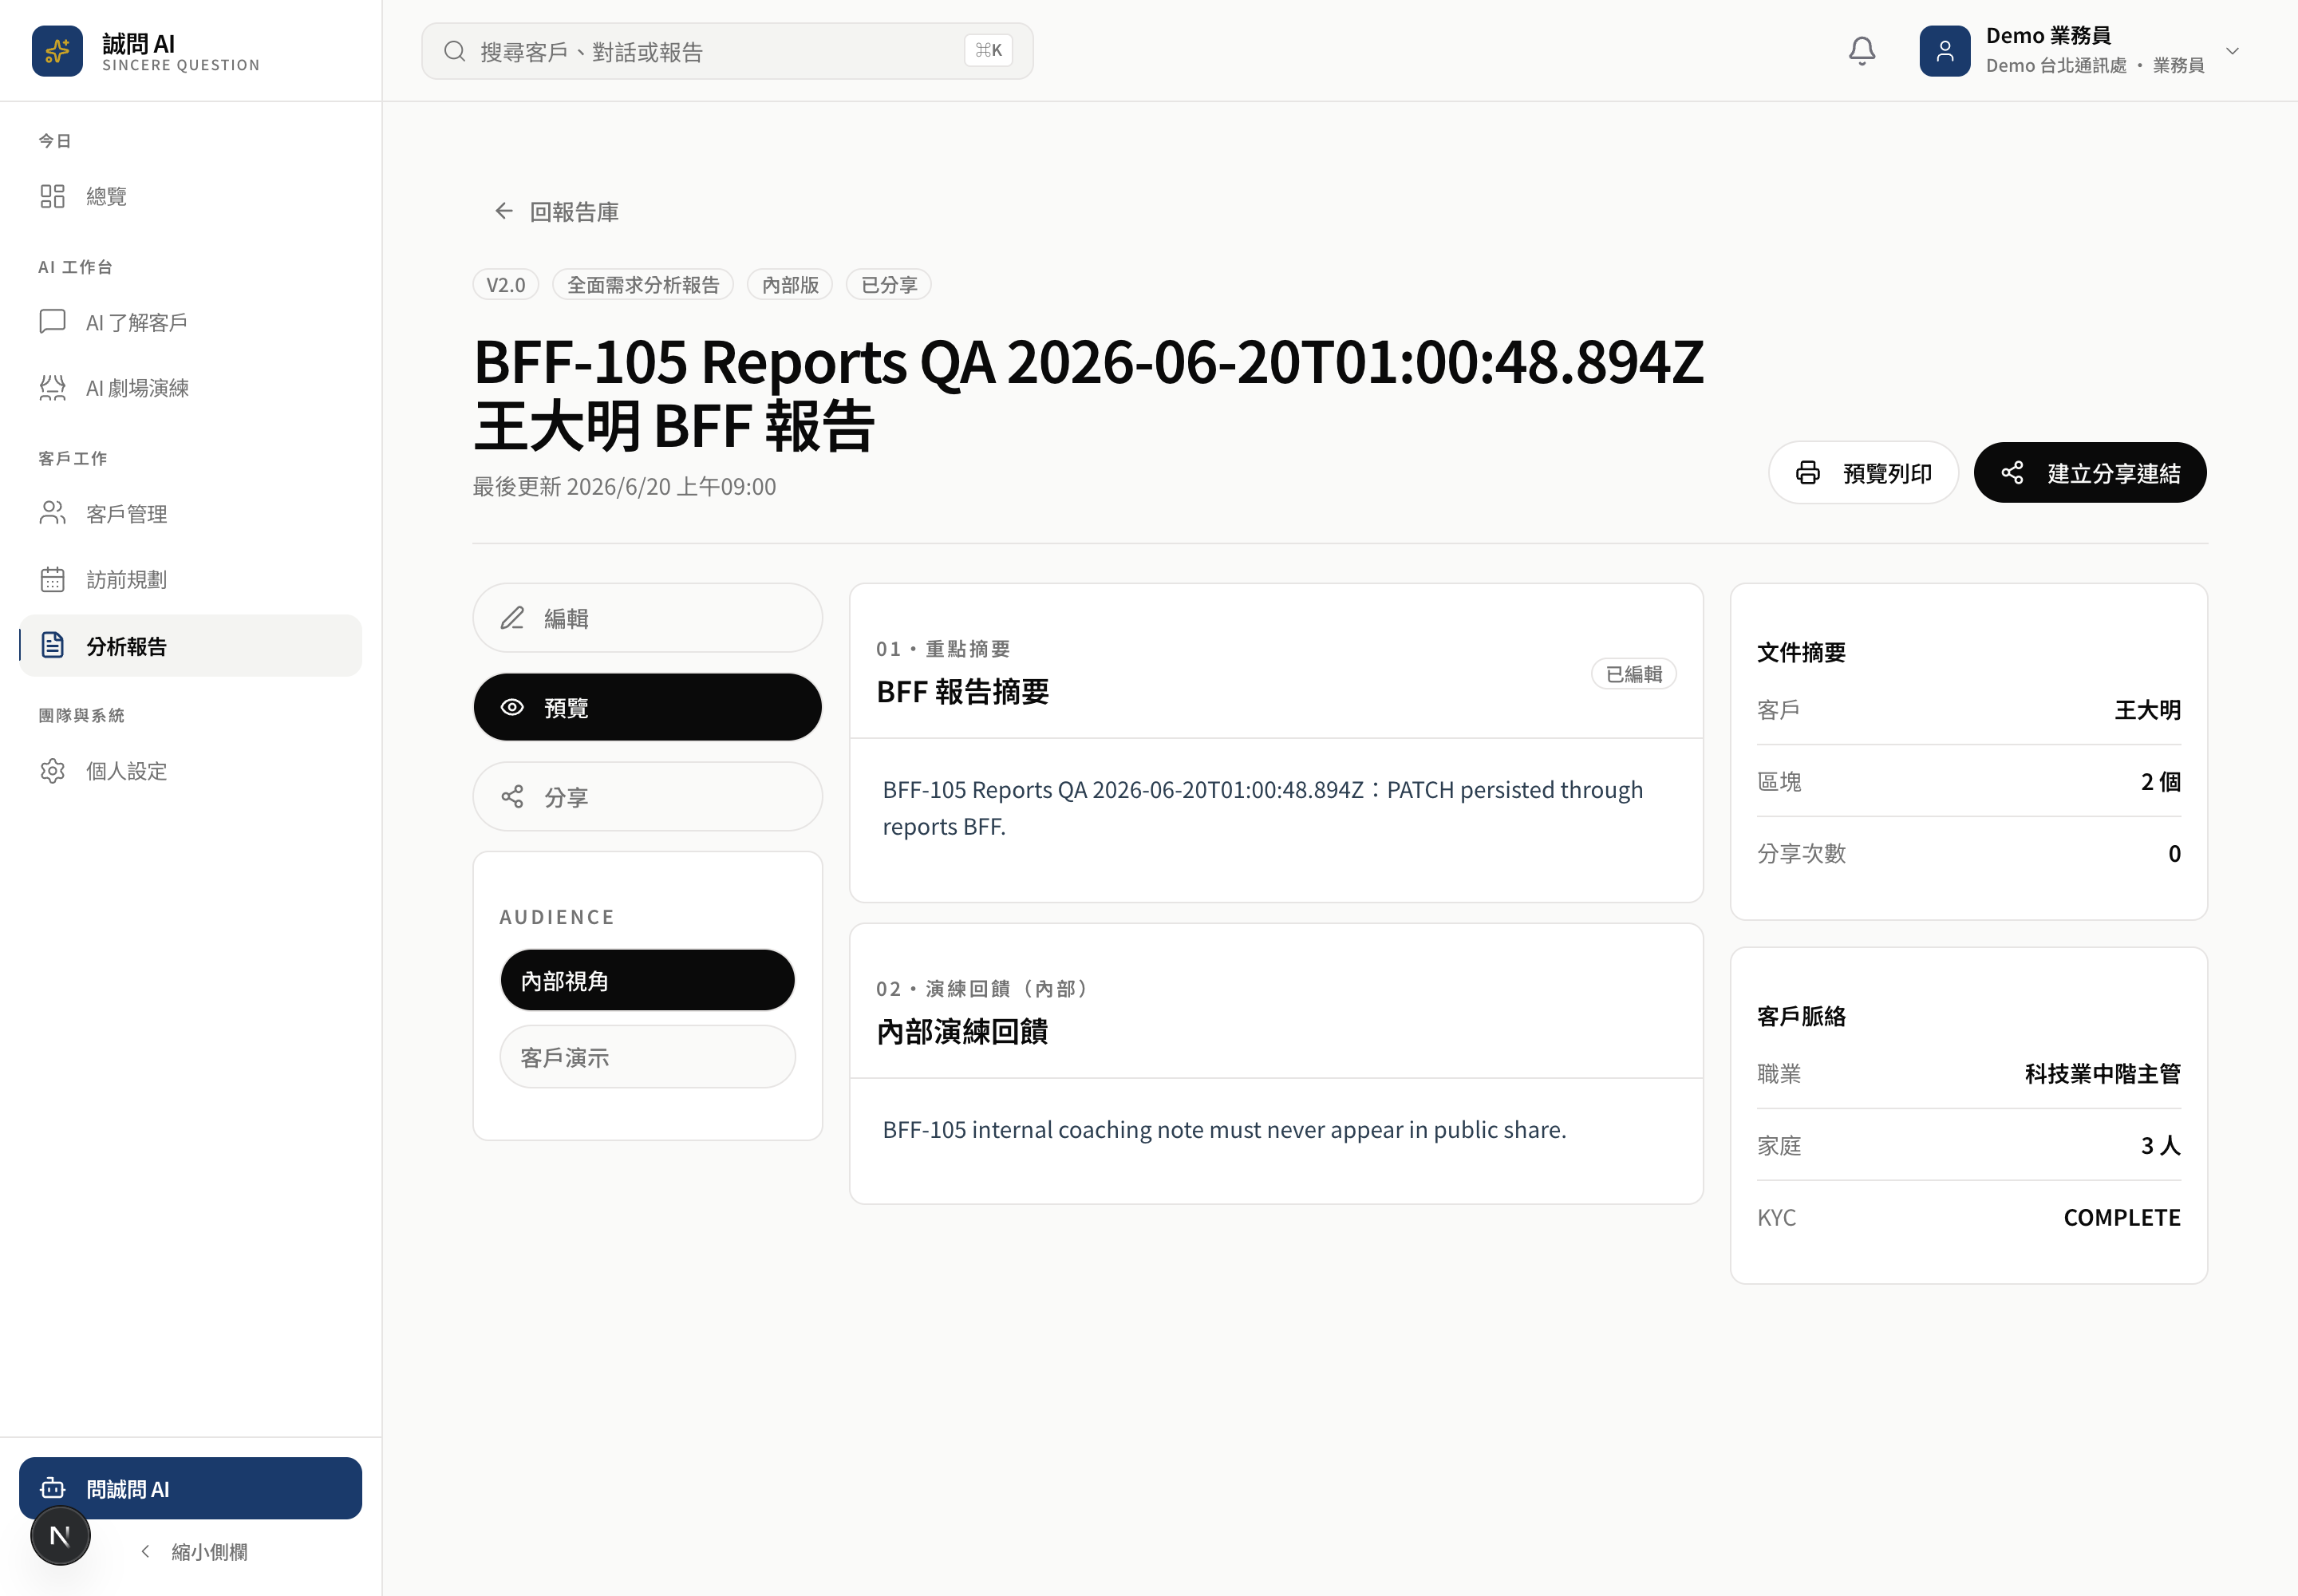
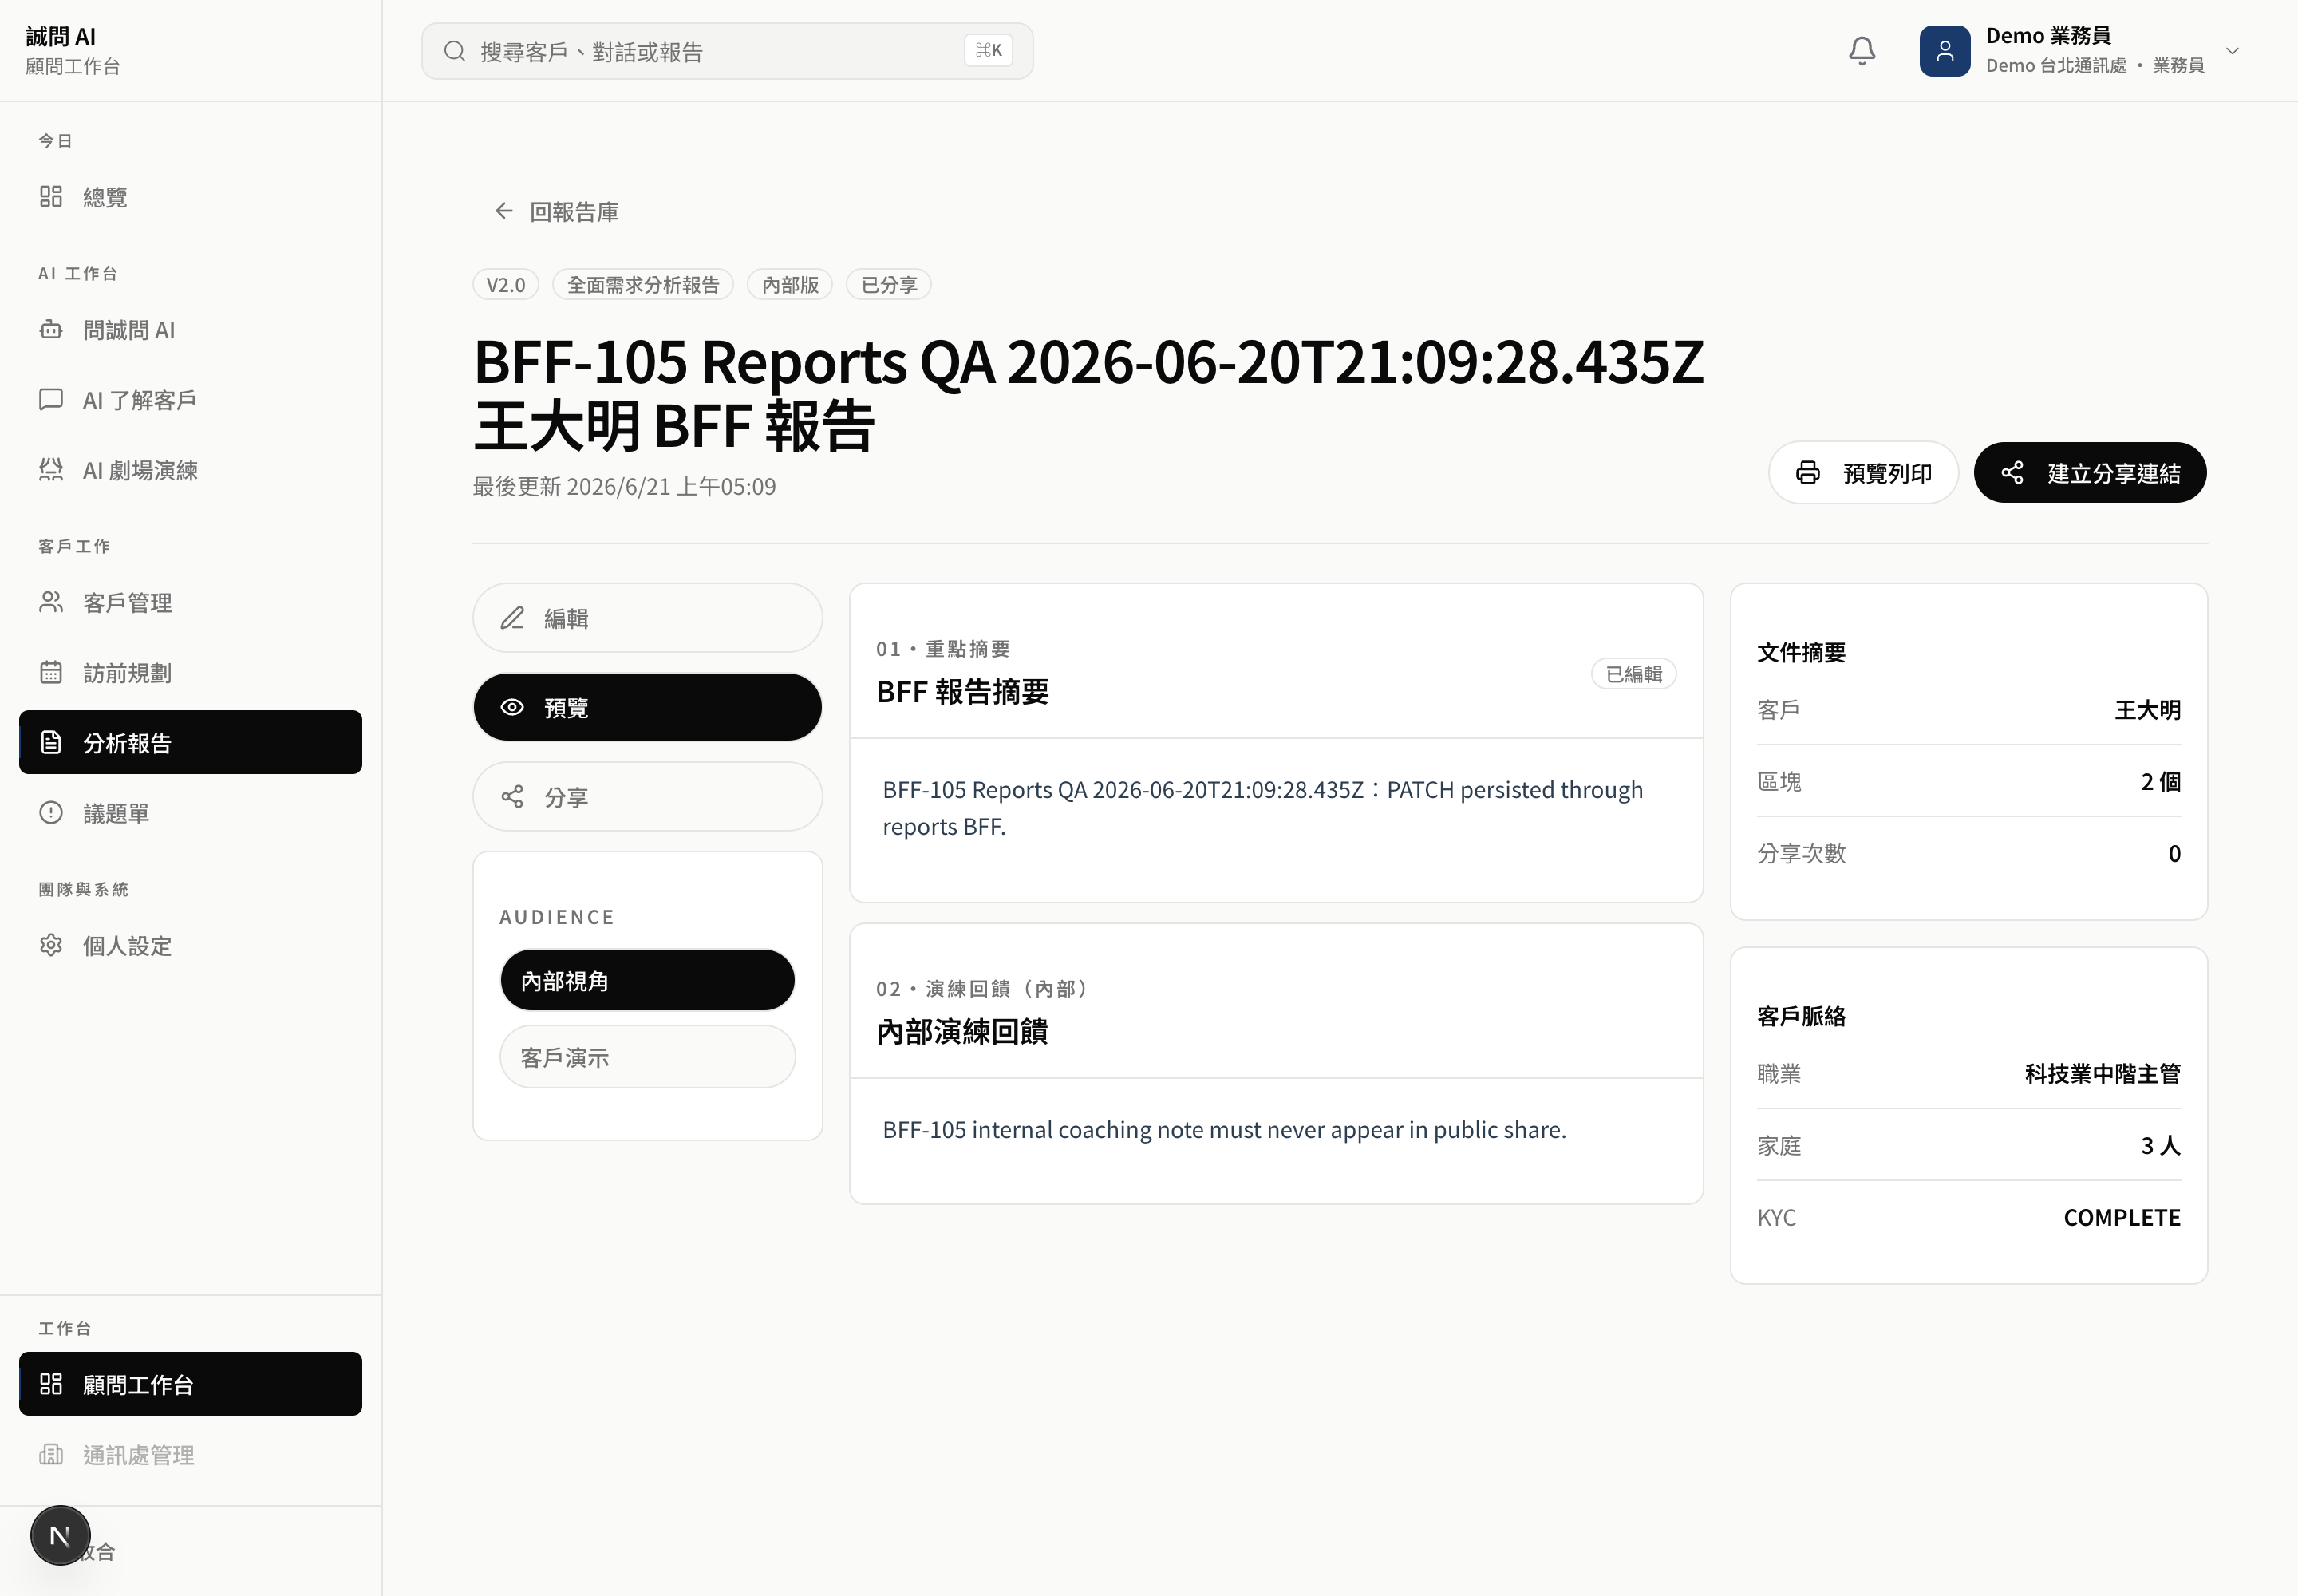
feat(ai-protocol): adopt nap source evidence

diff --git a/src/domains/ai-protocol/manifest.ts b/src/domains/ai-protocol/manifest.ts
@@ -29,6 +29,8 @@ export type AgentProtocolAiUsageLogPolicy =
   | "blocked-until-provider-proof"
   | "not-accepted-prototype";
 
+export type AgentProtocolSourceAdoptionStatus = "pending" | "partial" | "adopted";
+
 export type AgentProtocolDataClass =
   | "PUBLIC_METADATA"
   | "INTERNAL_METADATA"
@@ -99,6 +101,12 @@ export interface AgentProtocolManifest {
   proof: {
     sourceAuditModule: AgentProtocolModule | "PROTOTYPE";
     commands: string[];
+    sourceAdoption?: {
+      status: AgentProtocolSourceAdoptionStatus;
+      ownerRefs: string[];
+      evidenceRefs: string[];
+      notes: string[];
+    };
     knownBlockers: string[];
   };
   registry: {
@@ -175,7 +183,7 @@ export const ASAI_AGENT_PROTOCOL_MANIFESTS: AgentProtocolManifest[] = [
       displayName: "問誠問 AI",
       ownerSurface: "global assistant / dashboard shell",
       module: "CHAT",
-      version: "2026-06-21.nap-002",
+      version: "2026-06-21.nap-003a",
       status: "active",
     },
     capabilities: [
@@ -230,6 +238,27 @@ export const ASAI_AGENT_PROTOCOL_MANIFESTS: AgentProtocolManifest[] = [
     proof: {
       sourceAuditModule: "CHAT",
       commands: commonProofCommands,
+      sourceAdoption: {
+        status: "adopted",
+        ownerRefs: [
+          "src/app/api/ai/chat/route.ts",
+          "src/lib/assistant/assistant-chat-repository.ts",
+          "src/lib/assistant/assistant-tools.ts",
+        ],
+        evidenceRefs: [
+          "chatRequestSchema",
+          "ASSISTANT_TOOLS",
+          "executeAssistantTool",
+          "ensureAssistantConversation",
+          "persistAssistantChatSuccess",
+          "persistAssistantChatFailure",
+        ],
+        notes: [
+          "Route scope comes from requireCurrentMember and canUseAiModule before the provider path.",
+          "Conversation and message persistence are owned by assistant-chat-repository, including success and error AiUsageLog paths.",
+          "Assistant tool execution is restricted to the local allowlist and resolves client/team scope from the trusted session.",
+        ],
+      },
       knownBlockers: ["External registry publication approval is missing."],
     },
     registry: commonRegistry,
@@ -421,7 +450,7 @@ export const ASAI_AGENT_PROTOCOL_MANIFESTS: AgentProtocolManifest[] = [
       displayName: "SPIN advisor",
       ownerSurface: "/spin",
       module: "SPIN",
-      version: "2026-06-21.nap-002",
+      version: "2026-06-21.nap-003a",
       status: "active",
     },
     capabilities: [
@@ -470,6 +499,28 @@ export const ASAI_AGENT_PROTOCOL_MANIFESTS: AgentProtocolManifest[] = [
     proof: {
       sourceAuditModule: "SPIN",
       commands: [...commonProofCommands, "pnpm spin:source-truth-qa"],
+      sourceAdoption: {
+        status: "adopted",
+        ownerRefs: [
+          "src/app/api/ai/spin/route.ts",
+          "src/app/api/ai/spin-suggestions/route.ts",
+          "src/lib/spin/spin-session-repository.ts",
+        ],
+        evidenceRefs: [
+          "spinRequestSchema",
+          "suggestionsRequestSchema",
+          "SPIN_PHASES",
+          "PHASE_ORDER",
+          "isAllowedPhaseTransition",
+          "persistAiGenerationSuccess",
+          "persistAiGenerationFailure",
+        ],
+        notes: [
+          "Provider routes use requireCurrentMember, canUseAiModule, server-side client lookup, and success/error AiUsageLog helpers.",
+          "Persisted SPIN sessions keep SITUATION -> PROBLEM -> IMPLICATION -> NEED_PAYOFF ordering through repository transition checks.",
+          "Deterministic SPIN source-truth QA remains the accepted proof that session outline/persistence does not need a provider call.",
+        ],
+      },
       knownBlockers: ["External registry publication approval is missing."],
     },
     registry: commonRegistry,
@@ -480,7 +531,7 @@ export const ASAI_AGENT_PROTOCOL_MANIFESTS: AgentProtocolManifest[] = [
       displayName: "Visit preparation package",
       ownerSurface: "/pre-visit",
       module: "VISIT",
-      version: "2026-06-21.nap-002",
+      version: "2026-06-21.nap-003a",
       status: "active",
     },
     capabilities: [
@@ -528,6 +579,30 @@ export const ASAI_AGENT_PROTOCOL_MANIFESTS: AgentProtocolManifest[] = [
     proof: {
       sourceAuditModule: "VISIT",
       commands: [...commonProofCommands, "pnpm bff:visit-report-ai-qa"],
+      sourceAdoption: {
+        status: "adopted",
+        ownerRefs: [
+          "src/app/api/ai/visit/route.ts",
+          "src/domains/visit/ai-evidence-dto.ts",
+          "src/domains/visit/reasoning.ts",
+          "src/lib/visits/visit-plan-repository.ts",
+        ],
+        evidenceRefs: [
+          "visitRequestSchema",
+          "visitOutputSchema",
+          "buildProviderSafeClientSnapshot",
+          "buildAiEvidenceSummary",
+          "enrichSpinQuestionsWithReasoning",
+          "updateVisitPlanForMember",
+          "persistAiGenerationSuccess",
+          "persistAiGenerationFailure",
+        ],
+        notes: [
+          "Provider input is built from a provider-safe client snapshot and server-side client permission lookup.",
+          "Question rationale and evidence summary keep facts, inferences, unknowns, and recommendations separate.",
+          "Saved VisitPlan persistence is owned by the visit-plan repository, not by provider response metadata.",
+        ],
+      },
       knownBlockers: ["External registry publication approval is missing."],
     },
     registry: commonRegistry,
@@ -538,7 +613,7 @@ export const ASAI_AGENT_PROTOCOL_MANIFESTS: AgentProtocolManifest[] = [
       displayName: "Report generation",
       ownerSurface: "/reports",
       module: "REPORT",
-      version: "2026-06-21.nap-002",
+      version: "2026-06-21.nap-003a",
       status: "active",
     },
     capabilities: [
@@ -585,7 +660,31 @@ export const ASAI_AGENT_PROTOCOL_MANIFESTS: AgentProtocolManifest[] = [
     },
     proof: {
       sourceAuditModule: "REPORT",
-      commands: [...commonProofCommands, "pnpm bff:visit-report-ai-qa"],
+      commands: [...commonProofCommands, "pnpm bff:visit-report-ai-qa", "pnpm bff:reports-qa"],
+      sourceAdoption: {
+        status: "adopted",
+        ownerRefs: [
+          "src/app/api/ai/report/route.ts",
+          "src/domains/visit/ai-evidence-dto.ts",
+          "src/lib/report/report-repository.ts",
+          "src/lib/report/report-dto.ts",
+        ],
+        evidenceRefs: [
+          "reportRequestSchema",
+          "buildProviderSafeClientSnapshot",
+          "buildAiEvidenceSummary",
+          "persistAiGenerationSuccess",
+          "persistAiGenerationFailure",
+          "toReportDto",
+          "clientSections",
+          "INTERNAL_ONLY_SECTION_TYPES",
+        ],
+        notes: [
+          "Report AI uses current member scope, server-side client lookup, quota guard, and success/error AiUsageLog helpers.",
+          "JSON report mode returns evidenceSummary while report repository keeps internal sections separate from client-safe sections.",
+          "Public share uses report DTO filtering and never treats internal report body as registry metadata.",
+        ],
+      },
       knownBlockers: ["External registry publication approval is missing."],
     },
     registry: commonRegistry,

diff --git a/scripts/ai-protocol-registry-qa.ts b/scripts/ai-protocol-registry-qa.ts
@@ -30,6 +30,45 @@ const forbiddenValuePatterns = [
   /\botp\b/i,
 ];
 
+const nap003aSourceAdoptionRequirements: Record<string, { ownerRefs: string[]; evidenceRefs: string[]; commands: string[] }> = {
+  "asai.chat.assistant": {
+    ownerRefs: [
+      "src/app/api/ai/chat/route.ts",
+      "src/lib/assistant/assistant-chat-repository.ts",
+      "src/lib/assistant/assistant-tools.ts",
+    ],
+    evidenceRefs: ["ASSISTANT_TOOLS", "ensureAssistantConversation", "persistAssistantChatSuccess", "persistAssistantChatFailure"],
+    commands: ["pnpm ai:bff-audit", "pnpm ai:protocol-registry-qa"],
+  },
+  "asai.visit.preparation_package": {
+    ownerRefs: [
+      "src/app/api/ai/visit/route.ts",
+      "src/domains/visit/ai-evidence-dto.ts",
+      "src/lib/visits/visit-plan-repository.ts",
+    ],
+    evidenceRefs: ["buildProviderSafeClientSnapshot", "buildAiEvidenceSummary", "enrichSpinQuestionsWithReasoning", "updateVisitPlanForMember"],
+    commands: ["pnpm ai:bff-audit", "pnpm ai:protocol-registry-qa", "pnpm bff:visit-report-ai-qa"],
+  },
+  "asai.report.generation": {
+    ownerRefs: [
+      "src/app/api/ai/report/route.ts",
+      "src/lib/report/report-repository.ts",
+      "src/lib/report/report-dto.ts",
+    ],
+    evidenceRefs: ["buildProviderSafeClientSnapshot", "buildAiEvidenceSummary", "toReportDto", "clientSections"],
+    commands: ["pnpm ai:bff-audit", "pnpm ai:protocol-registry-qa", "pnpm bff:visit-report-ai-qa", "pnpm bff:reports-qa"],
+  },
+  "asai.spin.advisor": {
+    ownerRefs: [
+      "src/app/api/ai/spin/route.ts",
+      "src/app/api/ai/spin-suggestions/route.ts",
+      "src/lib/spin/spin-session-repository.ts",
+    ],
+    evidenceRefs: ["SPIN_PHASES", "isAllowedPhaseTransition", "persistAiGenerationSuccess", "persistAiGenerationFailure"],
+    commands: ["pnpm ai:bff-audit", "pnpm ai:protocol-registry-qa", "pnpm spin:source-truth-qa"],
+  },
+};
+
 runQa();
 
 for (const check of checks) {
@@ -60,6 +99,7 @@ function runQa() {
     assertPublicationGate(manifest);
     assertUsagePolicy(manifest);
     assertProofCommands(manifest);
+    assertNap003aSourceAdoption(manifest);
     assertNoForbiddenValues(manifest);
   }
 
@@ -149,6 +189,38 @@ function assertProofCommands(manifest: AgentProtocolManifest) {
 
   if (manifest.identity.status !== "prototype") {
     push(manifest.proof.commands.includes("pnpm ai:bff-audit"), `${prefix} includes AI BFF audit`);
+  }
+}
+
+function assertNap003aSourceAdoption(manifest: AgentProtocolManifest) {
+  const prefix = manifest.identity.agentId;
+  const requirement = nap003aSourceAdoptionRequirements[prefix];
+
+  if (!requirement) {
+    return;
+  }
+
+  const adoption = manifest.proof.sourceAdoption;
+
+  push(Boolean(adoption), `${prefix} declares NAP-003a source adoption evidence`);
+
+  if (!adoption) {
+    return;
+  }
+
+  push(adoption.status === "adopted", `${prefix} NAP-003a source adoption is adopted`, adoption.status);
+  push(adoption.notes.length > 0, `${prefix} has NAP-003a source adoption notes`);
+
+  for (const ownerRef of requirement.ownerRefs) {
+    push(adoption.ownerRefs.includes(ownerRef), `${prefix} source owner includes ${ownerRef}`);
+  }
+
+  for (const evidenceRef of requirement.evidenceRefs) {
+    push(adoption.evidenceRefs.includes(evidenceRef), `${prefix} evidence refs include ${evidenceRef}`);
+  }
+
+  for (const command of requirement.commands) {
+    push(manifest.proof.commands.includes(command), `${prefix} proof commands include ${command}`);
   }
 }
 

diff --git a/docs/06_audits-and-reports/AUD-008_nanda-agentfacts-ai-module-inventory-v1.0.md b/docs/06_audits-and-reports/AUD-008_nanda-agentfacts-ai-module-inventory-v1.0.md
@@ -193,10 +193,10 @@ This section converts the remaining `NAP-003` gap into reviewable implementation
 
 | Agent id | Source owner to align | Current source proof | NAP-003 adoption gap | Smallest next slice | Proof command |
 | --- | --- | --- | --- | --- | --- |
-| `asai.chat.assistant` | `src/app/api/ai/chat/route.ts`; `src/lib/assistant/assistant-chat-repository.ts`; `src/lib/assistant/assistant-tools.ts` | `ai:bff-audit` sees session/quota/success-error usage evidence. | Manifest does not yet point to tool allowlist source and conversation persistence proof as first-class source evidence. | Add manifest/source notes for assistant tool allowlist, conversation/message persistence, and no raw tool payload export. | `pnpm ai:bff-audit`; `pnpm ai:protocol-registry-qa` |
-| `asai.visit.preparation_package` | `src/app/api/ai/visit/route.ts`; `src/domains/visit/ai-evidence-dto.ts`; `src/lib/visits/visit-plan-repository.ts` | `bff:visit-report-ai-qa` proves success/error usage and provider-safe snapshot. | Manifest needs source-owner evidence for provider-safe client snapshot and question rationale DTO. | Align visit manifest with evidence DTO source, saved VisitPlan boundary, and theater handoff constraints. | `pnpm bff:visit-report-ai-qa` |
-| `asai.report.generation` | `src/app/api/ai/report/route.ts`; `src/lib/report/report-repository.ts`; `src/lib/report/report-dto.ts` | `bff:visit-report-ai-qa` proves success/error usage and JSON DTO. | Manifest needs explicit split between internal report body and client-safe share DTO. | Add source adoption note for JSON response mode, public share separation, and no raw report body export. | `pnpm bff:visit-report-ai-qa`; `pnpm bff:reports-qa` |
-| `asai.spin.advisor` | `src/app/api/ai/spin/route.ts`; `src/app/api/ai/spin-suggestions/route.ts`; `src/lib/spin/spin-session-repository.ts` | `spin:source-truth-qa` and `ai:bff-audit` prove BFF source and provider usage posture. | Manifest needs source-owner evidence for preserving `SITUATION -> PROBLEM -> IMPLICATION -> NEED_PAYOFF`. | Add state-machine source adoption note and proof refs without changing SPIN runtime. | `pnpm spin:source-truth-qa` |
+| `asai.chat.assistant` | `src/app/api/ai/chat/route.ts`; `src/lib/assistant/assistant-chat-repository.ts`; `src/lib/assistant/assistant-tools.ts` | `ai:bff-audit` sees session/quota/success-error usage evidence; NAP-003a manifest now points to tool allowlist and conversation persistence refs. | Completed in NAP-003a: `proof.sourceAdoption.status=adopted`. | Next only if assistant tool contracts change. | `pnpm ai:bff-audit`; `pnpm ai:protocol-registry-qa` |
+| `asai.visit.preparation_package` | `src/app/api/ai/visit/route.ts`; `src/domains/visit/ai-evidence-dto.ts`; `src/lib/visits/visit-plan-repository.ts` | `bff:visit-report-ai-qa` proves success/error usage and provider-safe snapshot; NAP-003a manifest now points to snapshot, evidence DTO, reasoning, and VisitPlan persistence refs. | Completed in NAP-003a: `proof.sourceAdoption.status=adopted`. | Next only if visit-to-theater handoff adds new writeback surface. | `pnpm ai:protocol-registry-qa`; provider-enabled proof remains `pnpm bff:visit-report-ai-qa` |
+| `asai.report.generation` | `src/app/api/ai/report/route.ts`; `src/lib/report/report-repository.ts`; `src/lib/report/report-dto.ts` | `bff:visit-report-ai-qa` proves success/error usage and JSON DTO; `bff:reports-qa` proves deterministic reports/share DTO separation; NAP-003a manifest now names both source boundaries. | Completed in NAP-003a: `proof.sourceAdoption.status=adopted`. | Next only if public share/export registry metadata is introduced. | `pnpm ai:protocol-registry-qa`; `pnpm bff:reports-qa`; provider-enabled proof remains `pnpm bff:visit-report-ai-qa` |
+| `asai.spin.advisor` | `src/app/api/ai/spin/route.ts`; `src/app/api/ai/spin-suggestions/route.ts`; `src/lib/spin/spin-session-repository.ts` | `spin:source-truth-qa` and `ai:bff-audit` prove BFF source and provider usage posture; NAP-003a manifest now names the state-machine refs. | Completed in NAP-003a: `proof.sourceAdoption.status=adopted`. | Next only if SPIN persistence/state machine changes. | `pnpm spin:source-truth-qa`; `pnpm ai:protocol-registry-qa` |
 | `asai.interview.companion` | `src/app/api/ai/interview/route.ts`; `src/app/api/ai/interview/outputs/route.ts`; `src/domains/interview/*`; `src/lib/interview/*` | PIM reports prove Park memory, reflection/planning, writeback, and draft writeback. | Manifest covers broad interview ability but not the source-level map from memory/reflection/writeback to confirmation boundaries. | Split source evidence into provider turns, deterministic session/memory routes, writeback confirmation, and draft handoff. | `pnpm interview:cross-mode-qa`; `pnpm interview:draft-writeback-qa` |
 | `asai.interview.quick_capture` | `src/app/api/ai/interview/quick-captures/route.ts`; `src/domains/interview/quick-capture.ts` | `interview:quick-capture-ui-qa` proves UI selector, high-sensitive gate, no raw note echo, unchanged usage. | Mostly aligned, but manifest should name current workspace selector and no-provider proof as accepted source evidence. | Mark quick-capture source adoption complete once manifest proof refs include UI selector/current workspace contract. | `pnpm interview:quick-capture-ui-qa` |
 | `asai.interview.realtime_voice` | `src/app/api/ai/interview/realtime-session/route.ts`; `src/app/api/ai/interview/realtime-events/route.ts`; `src/app/api/ai/interview/transcribe/route.ts`; `src/lib/interview/realtime-bff.ts` | Realtime BFF QA proves token/session/event mirror bounds; live WebRTC proof remains blocked. | Manifest needs clearer distinction between dry-run/session-marker, transcription provider, and live WebRTC blocker. | Add source adoption note for no raw audio default, ephemeral secret boundary, event mirror allowlist, and live proof blocker. | `pnpm interview:realtime-bff-qa` |
@@ -220,3 +220,13 @@ Acceptance intent:
 - Do not alter SPIN state transitions, provider prompts, or response payloads in this slice unless needed for source evidence.
 
 This is intentionally narrower than "finish all NAP-003" so the next automation loop can remain reviewable and avoid mixing interview/theater/RAG/prototype ownership.
+
+### NAP-003a Completion Evidence
+
+Implementation/proof update on 2026-06-21:
+
+- `asai.chat.assistant`, `asai.visit.preparation_package`, `asai.report.generation`, and `asai.spin.advisor` now declare `proof.sourceAdoption.status=adopted` in `src/domains/ai-protocol/manifest.ts`.
+- Source adoption evidence includes owner refs, evidence refs, and notes for route ownership, DTO/evidence boundaries, quota posture, success/error `AiUsageLog` policy, and SPIN state-machine preservation.
+- `scripts/ai-protocol-registry-qa.ts` now enforces the NAP-003a source-adoption requirements for these four agent ids.
+- The slice remains internal-only: no external registry publication, no signing, no public discovery endpoint, no cross-org access, and no provider calls.
+- `pnpm bff:visit-report-ai-qa` is kept as accepted provider-enabled proof for VISIT/REPORT, but this no-provider slice intentionally does not run it because it triggers provider success paths and writes VISIT/REPORT usage rows.

diff --git a/AGENTS.md b/AGENTS.md
@@ -1544,8 +1544,9 @@ Context: 將誠問 AI 內所有 AI 能力逐步對齊 MIT Project NANDA / AgentF
 - NAP-002 已建立 `AgentProtocolManifest` source schema、11 個 internal-only manifest 與 `pnpm ai:protocol-registry-qa`；多數正式 AI route 已有 session/quota/`AiUsageLog` 或 deterministic no-provider proof。
 - NAP-004 已建立 platform-only internal registry readiness reader、least-disclosure API 與 release-readiness projection；platform user 可讀、member app session 403，且所有 agent 仍為 `internal-only`。
 - ITA-003g 已補 `asai.theater.route_b` manifest source alignment：runtime preflight capability、director/character/feedback actions、`RouteBRuntimeInputPreview` DTO refs、guarded-disabled provider posture、visibility-safe history 與 success/error `AiUsageLog` plan 已有 source/API proof；legacy Theater 與其他 AI modules 仍待 NAP-003 完整對齊。
-- Quiet NAP-003 gap research（2026-06-21）：`AUD-008` 已新增 NAP-003 source adoption matrix，用六視框把 11 個 AI module 拆成 source owner、目前 proof、adoption gap、下一個最小 slice、proof command 與 blocker。下一輪建議不要一次掃完所有 AI，先做 `NAP-003a provider-ready AI source adoption`，對齊 CHAT / VISIT / REPORT / SPIN 的 source-owner proof、DTO/evidence boundary、quota/`AiUsageLog` posture，且不呼叫 provider、不改 SPIN 狀態機。
-- 缺口轉為 NAP-003 的 per-AI source alignment / readiness adoption，以及 NAP-005 local-only adapter/export dry-run。
+- Quiet NAP-003 gap research（2026-06-21）：`AUD-008` 已新增 NAP-003 source adoption matrix，用六視框把 11 個 AI module 拆成 source owner、目前 proof、adoption gap、下一個最小 slice、proof command 與 blocker。
+- NAP-003a（2026-06-21）已完成 CHAT / VISIT / REPORT / SPIN provider-ready source adoption：四個 manifest 都新增 source owner proof、DTO/evidence boundary、quota/`AiUsageLog` posture 與 NAP-003a static QA；未呼叫 provider、不改 SPIN 狀態機，所有 module 仍為 `internal-only`。
+- 缺口轉為 NAP-003b/c 的 interview / quick-capture / realtime / theater / RAG per-AI source alignment，以及 NAP-005 local-only adapter/export dry-run。
 - NANDA / AgentFacts 對外 registry publication、signing、public discovery endpoint、cross-org agent access 都需 operator approval；目前只允許 internal manifest / adapter proof。
 
 ### Batch NAP-001 — AI module inventory and NANDA mapping
@@ -1567,13 +1568,15 @@ Context: 將誠問 AI 內所有 AI 能力逐步對齊 MIT Project NANDA / AgentF
 完成註記（2026-06-21 NAP-002）：新增 `src/domains/ai-protocol/` 的 `AgentProtocolManifest` schema 與 11 個 internal-only manifest，覆蓋 chat、interview、quick-capture、Realtime voice、SPIN、visit、report、legacy Theater、Route B Theater、RAG guarded-disabled、AI Meeting prototype。新增 `pnpm ai:protocol-registry-qa` 檢查 manifest completeness、sentinel、`AiUsageLog` policy、readiness 與 disabled publication gate；`pnpm ai:bff-audit` 仍為 route/AiUsage source proof。未呼叫 provider、未動 DB/Prisma、未對外發布 registry。
 
 ### Batch NAP-003 — Per-AI manifest adoption and source alignment
-- [ ] 將 `CHAT` / assistant manifest 對齊 route owner proof，標明 assistant conversation/message persistence、tool allowlist、quota、usage logging。
+- [x] 將 `CHAT` / assistant manifest 對齊 route owner proof，標明 assistant conversation/message persistence、tool allowlist、quota、usage logging。
 - [ ] 將 `INTERVIEW` / `INTERVIEW_OUTPUTS` / quick-capture manifest 對齊 source proof，標明 memory/writeback/confirmation boundary。
-- [ ] 將 `VISIT` / `REPORT` AI manifest 對齊 source proof，標明 provider-safe client snapshot、facts/inferences/unknowns DTO。
-- [ ] 將 `SPIN` manifest 對齊 source proof，明確保留 `SITUATION -> PROBLEM -> IMPLICATION -> NEED_PAYOFF` state machine。
+- [x] 將 `VISIT` / `REPORT` AI manifest 對齊 source proof，標明 provider-safe client snapshot、facts/inferences/unknowns DTO。
+- [x] 將 `SPIN` manifest 對齊 source proof，明確保留 `SITUATION -> PROBLEM -> IMPLICATION -> NEED_PAYOFF` state machine。
 - [~] 將 `THEATER` legacy / Route B manifest 對齊 source proof，標明 guarded-disabled provider posture、director/character/feedback readiness 與 private/group visibility。
 - [ ] 將 `RAG` manifest 對齊 source proof，標明 private beta guarded-disabled posture。
-- [ ] 跑 `pnpm ai:bff-audit`、`pnpm ai:protocol-registry-qa`、`pnpm exec tsc --noEmit --pretty false`、`pnpm lint:changed`。
+- [x] 跑 `pnpm ai:bff-audit`、`pnpm ai:protocol-registry-qa`、`pnpm exec tsc --noEmit --pretty false`、`pnpm lint:changed`。
+
+完成註記（2026-06-21 NAP-003a）：`asai.chat.assistant`、`asai.visit.preparation_package`、`asai.report.generation`、`asai.spin.advisor` 已在 `AgentProtocolManifest` 新增 `proof.sourceAdoption.status=adopted`、source owner refs、evidence refs 與 source adoption notes；`scripts/ai-protocol-registry-qa.ts` 會強制檢查四個 provider-ready module 的 NAP-003a adoption proof。`pnpm bff:visit-report-ai-qa` 會實際觸發 provider 成功路徑，本輪依 no-provider slice 不執行，改以 static/source proof 與非 provider QA 收斂。
 
 ### Batch NAP-004 — Internal registry and readiness API
 - [x] 建立 internal registry reader（server-only），可列出 AI manifests、readiness、missing proof、operator approval blockers。